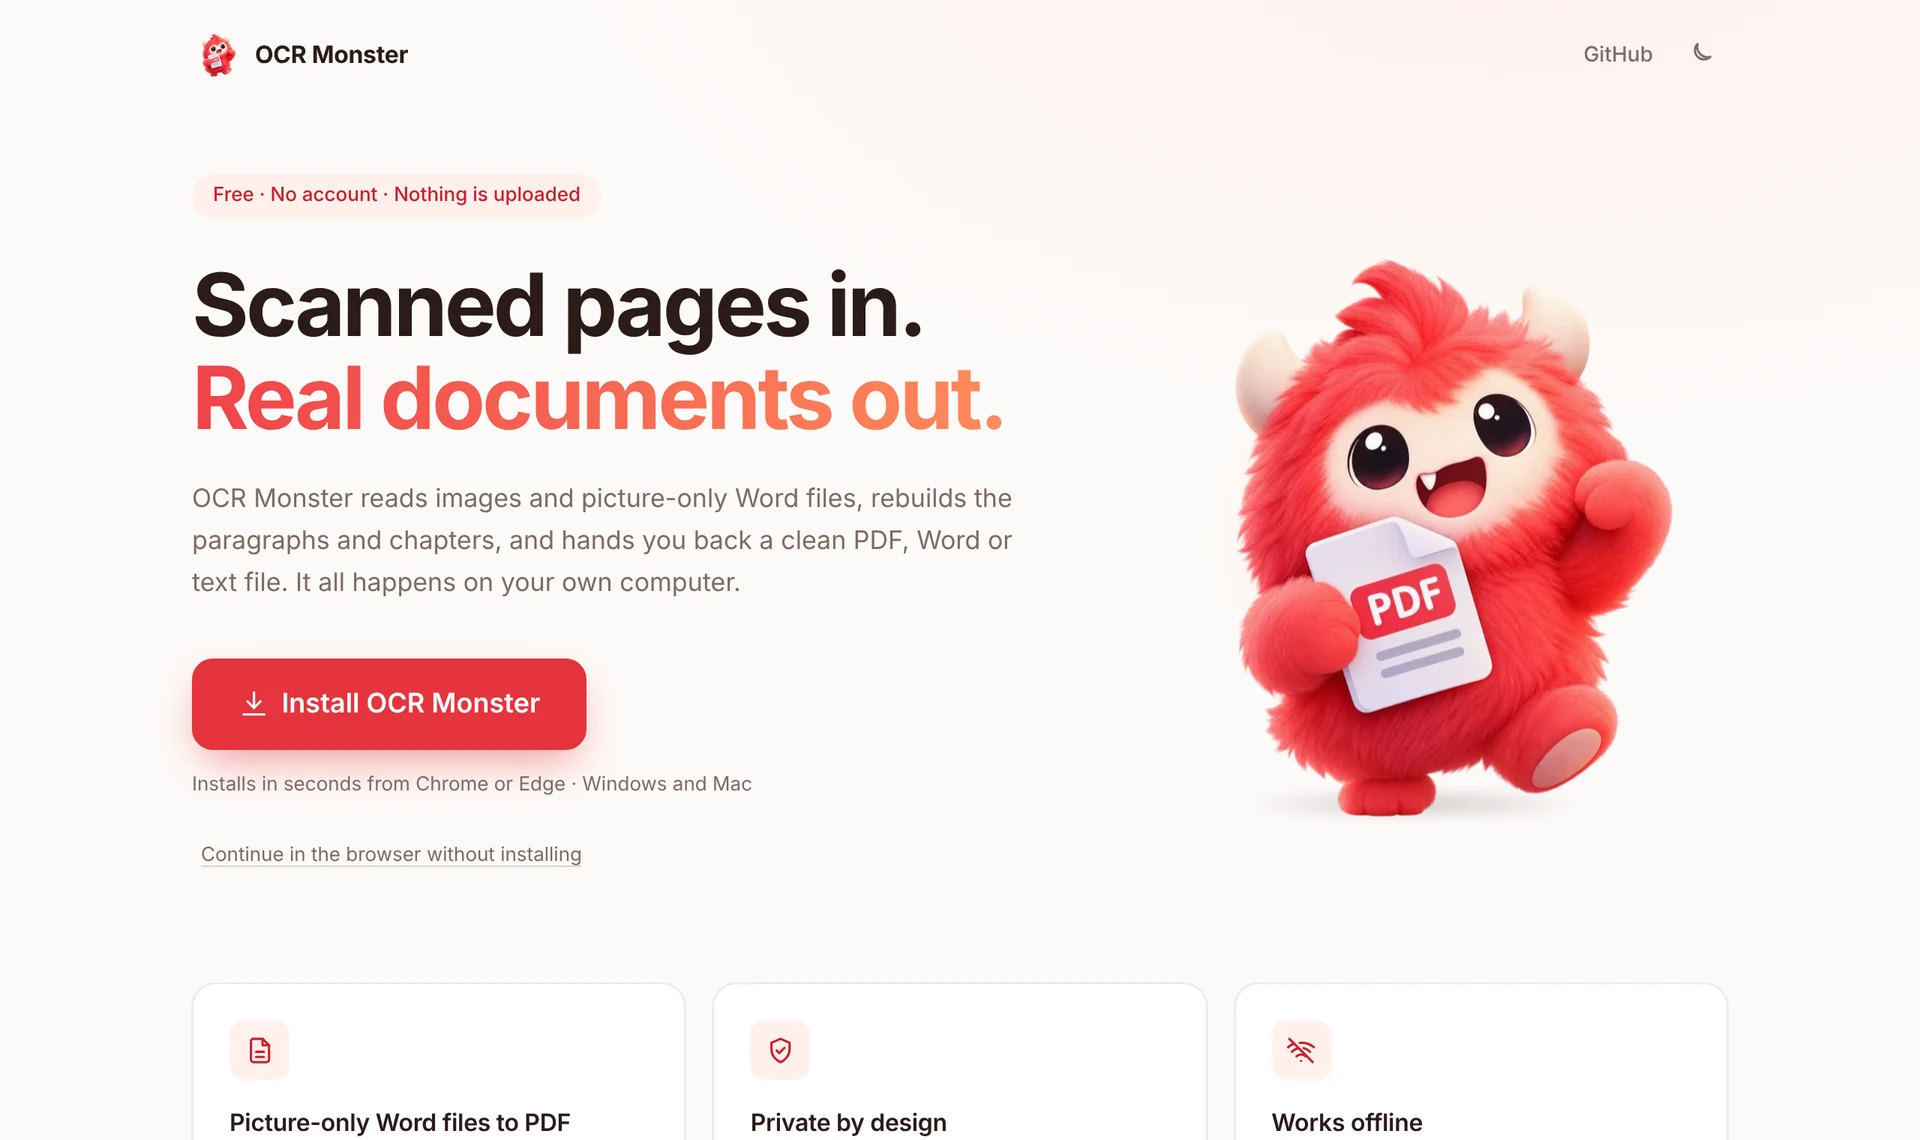
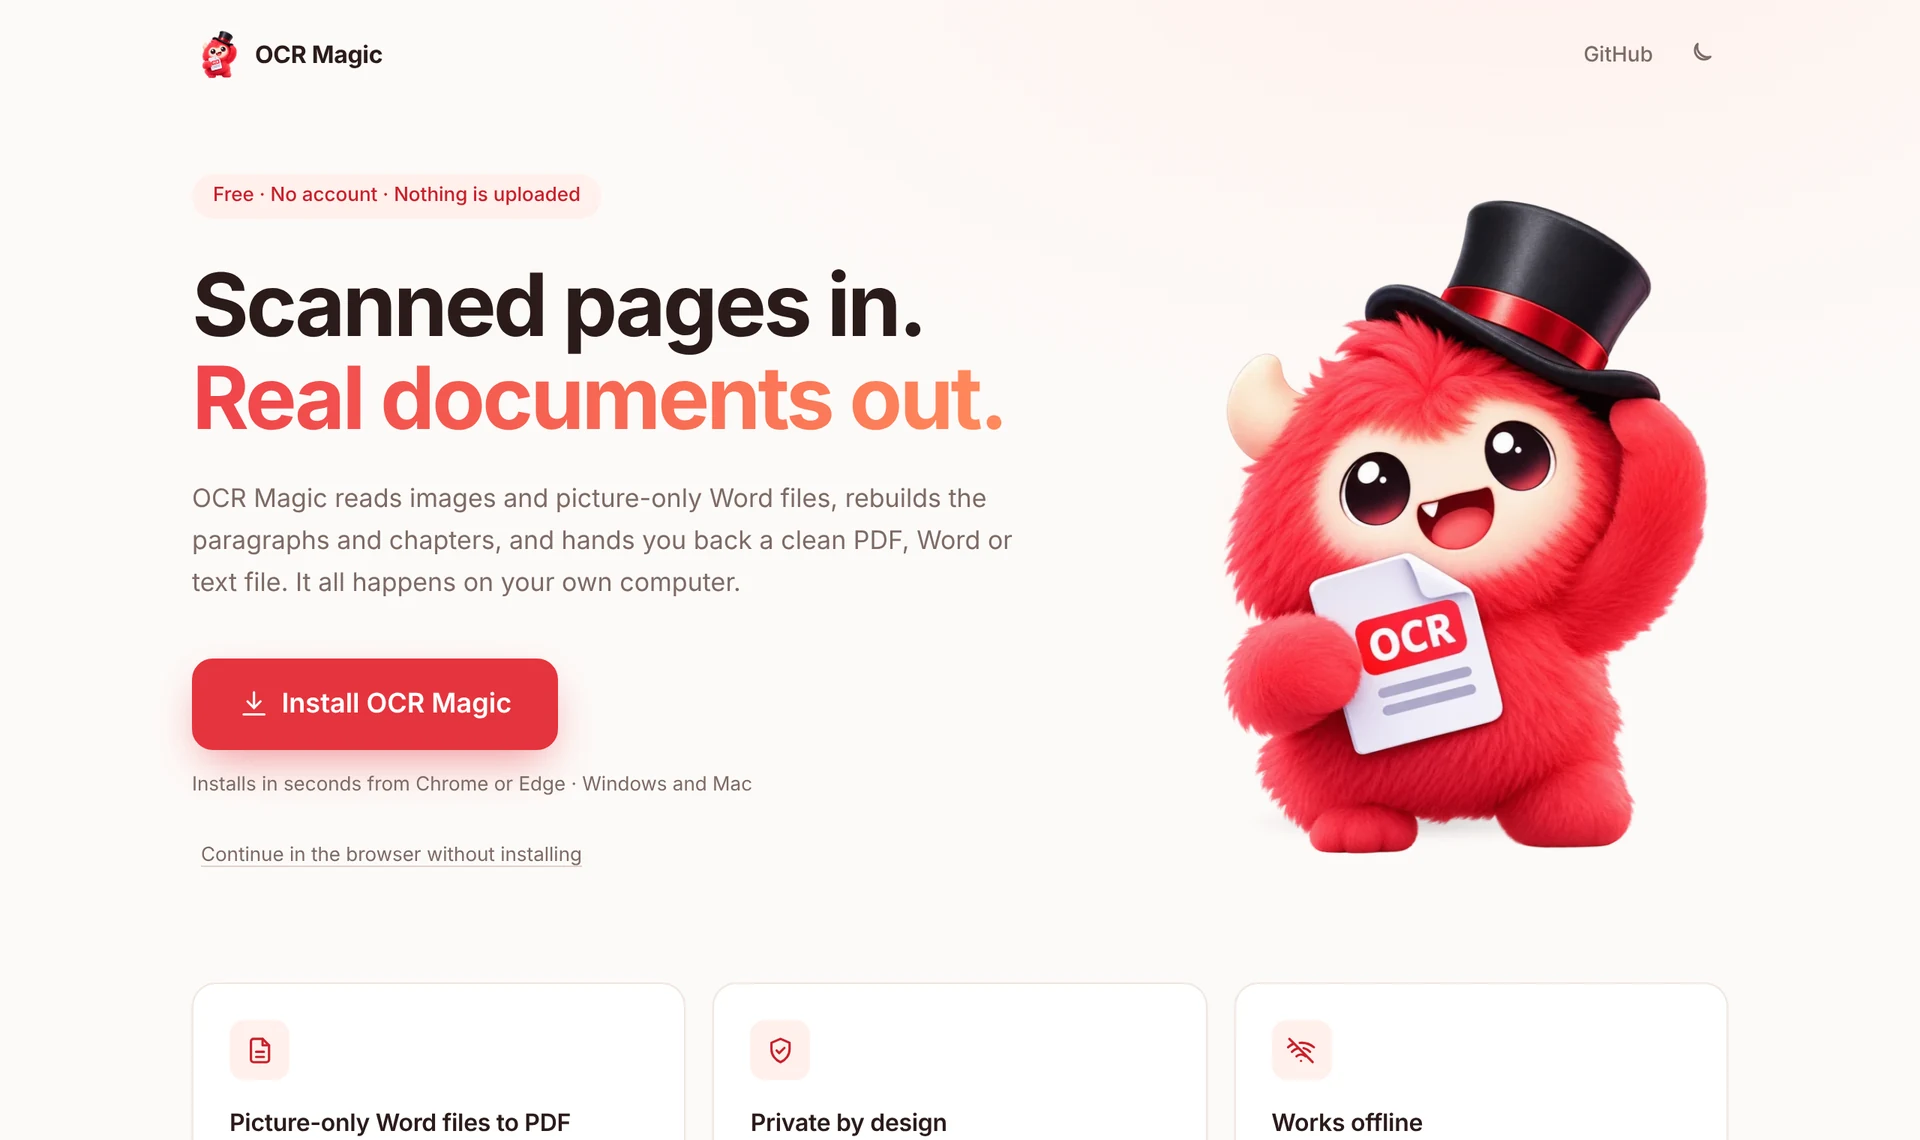
Switch to the new top-hat mascot
Replace the hero art, brand mark and app icons with the new mascot and
retake the README screenshots so they show the OCR Magic name.

Claude-Session: https://claude.ai/code/session_01J3d5PXBVg627sWeV86apet

diff --git a/index.html b/index.html
@@ -83,7 +83,7 @@
             <button id="use-in-browser" class="l-quiet">Continue in the browser without installing</button>
           </div>
           <div class="hero-art">
-            <img src="/mascot.webp" width="800" height="800" alt="A fluffy red monster happily holding a PDF" />
+            <img src="/mascot.webp" width="800" height="854" alt="A fluffy red monster in a magician's top hat, happily holding an OCR document" />
           </div>
         </section>
 

diff --git a/public/sw.js b/public/sw.js
@@ -1,5 +1,5 @@
 // Offline support for the browser / installed-app version of ez-ocr.
-const CACHE = "ocr-magic-v5";
+const CACHE = "ocr-magic-v6";
 const WARM = ["tesseract/worker.min.js", "tesseract/tesseract-core-simd-lstm.wasm.js", "tessdata/eng.traineddata.gz"];
 
 self.addEventListener("install", (e) => {

diff --git a/README.md b/README.md
@@ -1,6 +1,6 @@
 <div align="center">
 
-<img src="public/mascot.webp" alt="The OCR Magic mascot, a fluffy red monster happily holding a PDF" width="220" />
+<img src="public/mascot.webp" alt="The OCR Magic mascot, a fluffy red monster in a magician's top hat holding an OCR document" width="220" />
 
 <h1>OCR Magic</h1>
 
